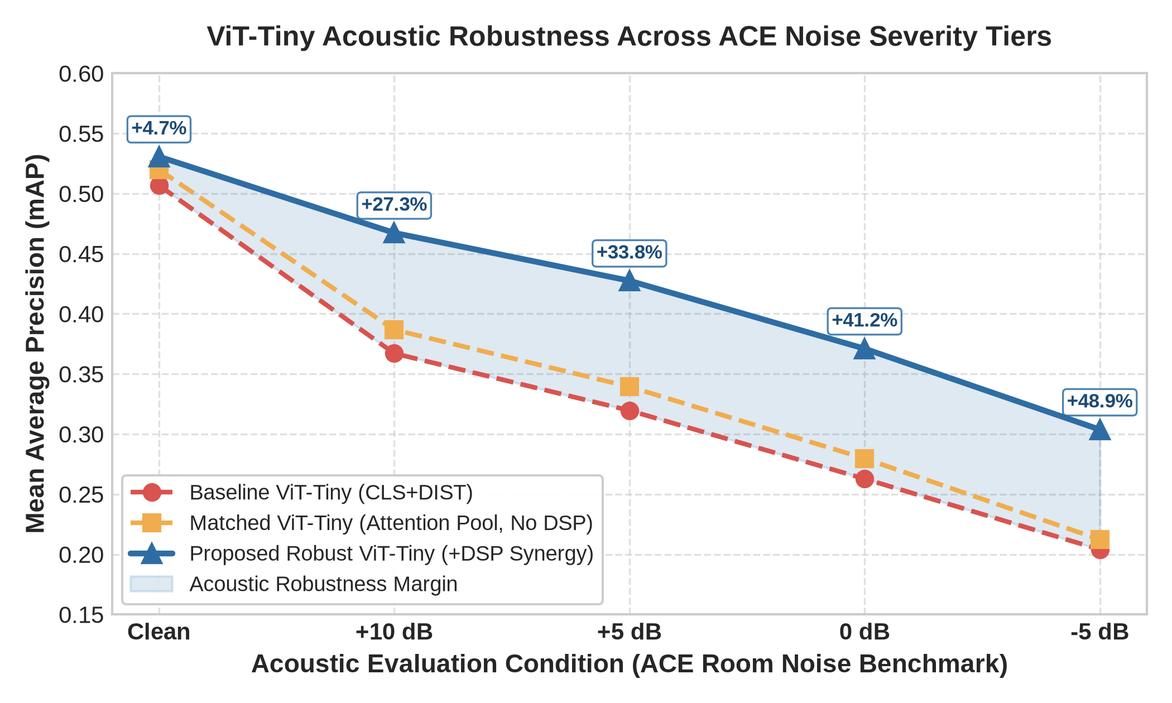
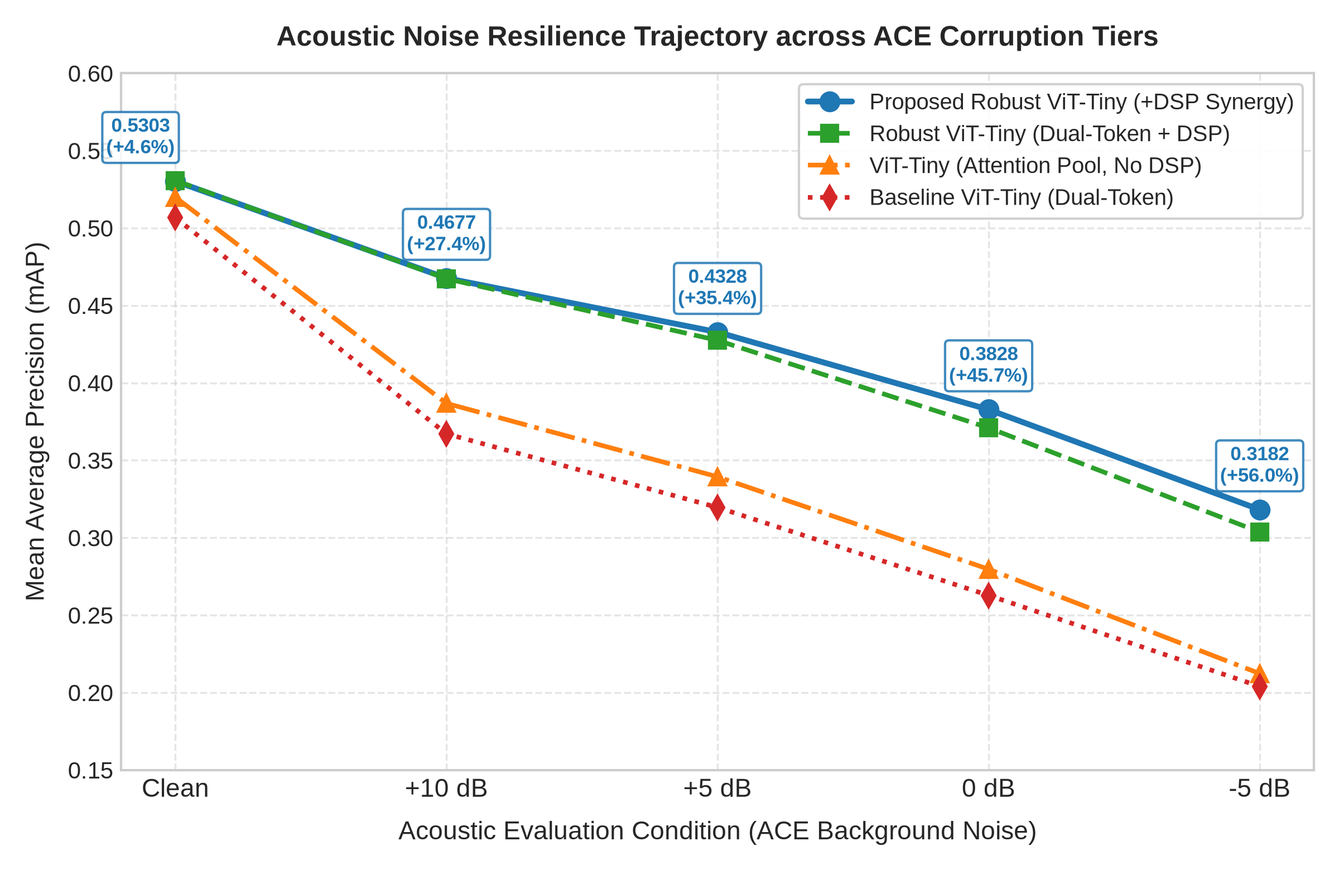
Update report figures, harmonize metrics, and refine failure mode analysis

Changed region(s): [[0.0, 0.031, 0.9905, 0.9905], [0.5262, 0.681, 0.5571, 0.7119]]

diff --git a/report/report.tex b/report/report.tex
@@ -40,7 +40,7 @@
 \maketitle
 
 \begin{abstract}
-Environmental sound recognition (ESR) is essential for autonomous acoustic monitoring, yet out-of-distribution acoustic corruptions severely degrade real-world performance. In this work, we present a systematic multi-label benchmarking study on FSD50K under both clean and heavily corrupted acoustic conditions. We evaluate Convolutional Neural Network baselines (ResNet-18/34, EfficientNet-B0/B4) against Audio Spectrogram Transformers (ViT-Tiny/Small). While convolutional architectures like EfficientNet-B4 achieve the strongest clean precision ($0.5396$ mAP) and parameter efficiency, Vision Transformers provide competitive discrimination and Top-1 retrieval ($76.54\%$ for ViT-Small). Under unseen $-5\text{ dB}$ SNR noise corruption, undefended ViT-Tiny performance degrades from $0.5068$ to $0.2040$ mAP. To address this degradation, we develop an acoustic augmentation pipeline combining continuous spectral-slope colored noise ($1/f^\alpha$, $\alpha \in [0, 2]$), Schroeder room reverberation, Mixup ($\alpha=0.5$), and learned attention pooling. The resulting robust model improves $-5\text{ dB}$ performance to $0.3182$ mAP ($+56.0\%$ relative gain over baseline ViT-Tiny) while reaching $0.5303$ clean mAP without external noise datasets. Finally, extensive ablations quantify the trade-offs of token pooling heads, decision threshold calibration, and individual augmentation components.
+Environmental sound recognition (ESR) is essential for autonomous acoustic monitoring, yet out-of-distribution acoustic corruptions severely degrade real-world performance. In this work, we present a systematic multi-label benchmarking study on FSD50K under both clean and heavily corrupted acoustic conditions. We evaluate Convolutional Neural Network baselines (ResNet-18/34, EfficientNet-B0/B4) against Audio Spectrogram Transformers (ViT-Tiny/Small). While convolutional architectures achieve strong clean recognition (EfficientNet-B4 reaching $0.5396$ mAP and EfficientNet-B0 providing exceptional parameter efficiency with $4.26\text{M}$ parameters), Vision Transformers provide competitive discrimination and Top-1 retrieval ($76.54\%$ for ViT-Small). Under unseen $-5\text{ dB}$ SNR noise corruption, undefended ViT-Tiny performance degrades from $0.5068$ to $0.2040$ mAP. To address this degradation, we develop an acoustic augmentation pipeline combining continuous spectral-slope colored noise ($1/f^\alpha$, $\alpha \in [0, 2]$), Schroeder room reverberation, Mixup ($\alpha=0.5$), and learned attention pooling. The resulting robust model improves $-5\text{ dB}$ performance to $0.3182$ mAP ($+56.0\%$ relative gain over baseline ViT-Tiny) while reaching $0.5303$ clean mAP without external noise datasets. Finally, extensive ablations quantify the trade-offs of token pooling heads, decision threshold calibration, and individual augmentation components.
 \end{abstract}
 
 \textbf{Keywords:} Environmental Sound Recognition, Audio Spectrogram Transformer, Noise Robustness, Digital Signal Processing Augmentation, FSD50K, Multi-Label Classification.
@@ -121,7 +121,7 @@ Audio spectrograms represent acoustic energy across continuous time (horizontal 
 
 In optical computer vision, 2D convolution leverages spatial translation equivariance: an object retains its identity regardless of spatial coordinates. In audio spectrograms, the temporal axis is translation-invariant (a sound event occurring at $t=2\text{ s}$ vs. $t=6\text{ s}$ retains its category), but the frequency axis is \textbf{strictly non-shift-invariant}. Shifting spectral energy upward alters pitch, formant structure, and harmonic intervals, fundamentally changing sound identity. Standard CNNs (ResNet-18/34, EfficientNet-B0/B4) apply small convolutional kernels that excel at localized spectro-temporal textures and onset bursts, but require deep layer hierarchies and spatial pooling to capture multi-octave harmonic coherence (e.g., fundamental pitches at $100\text{ Hz}$ and integer overtones at $1\text{--}4\text{ kHz}$).
 
-In contrast, the Audio Spectrogram Transformer (AST) divides the 2D spectrogram into patches and applies multi-head self-attention. This establishes an $\mathcal{O}(1)$ information path length between any pair of time-frequency patches, allowing early self-attention layers to directly attend to simultaneous harmonic overtones across the entire 128 Mel channels. Learnable positional embeddings encode both temporal offset and frequency band index, capturing non-shift-invariant spectral structures naturally. To transfer visual pre-training without RGB channel expansion, the initial convolutional layer (\texttt{conv1}) of ResNet and EfficientNet is adapted from 3 channels to 1 single spectrogram channel by summing pre-trained weights across the channel dimension ($\mathbf{W}_{\text{conv1\_new}} = \sum_{c=1}^3 \mathbf{W}_{\text{orig}}[:, c, :, :]$), consistent with the energy preservation strategy used in the AST patch projection layer.
+In contrast, the Audio Spectrogram Transformer (AST) divides the 2D spectrogram into patches and applies multi-head self-attention. This establishes an $\mathcal{O}(1)$ information path length between any pair of time-frequency patches, allowing early self-attention layers to directly attend to simultaneous harmonic overtones across the entire 128 Mel channels. Learnable positional embeddings encode both temporal offset and frequency band index, capturing non-shift-invariant spectral structures naturally. To transfer visual pre-training without RGB channel expansion, the initial convolutional layer (\texttt{conv1}) of ResNet and EfficientNet is adapted from 3 channels to 1 single spectrogram channel by averaging pre-trained weights across the channel dimension ($\mathbf{W}_{\text{conv1\_new}} = \frac{1}{3}\sum_{c=1}^3 \mathbf{W}_{\text{orig}}[:, c, :, :]$), whereas AST patch projection weights are summed across channels to preserve initial activation energy before adding unnormalized positional embeddings.
 
 \subsection{Main Proposed Method: Audio Spectrogram Transformer}
 Our primary classification architecture is the Audio Spectrogram Transformer (AST) built upon DeiT ViT-Tiny and ViT-Small backbones:
@@ -248,7 +248,7 @@ ViT-Small ($\text{CLS}+\text{DIST}$) & Transformer & 21.93M & 38.70G & 18.2ms & 
 }
 \end{table}
 
-Among convolutional baselines, EfficientNet-B0 demonstrates remarkable compute efficiency ($0.5233$ Eval mAP with only $4.26\text{M}$ parameters and $1.05\text{ GMACs}$). Scaling to EfficientNet-B4 achieves the highest clean precision ($0.5396$ Eval mAP, $0.6114$ F1). Concurrently, Vision Transformers achieve competitive clean discriminability ($0.5068$ for ViT-Tiny, $0.5288$ for ViT-Small) while providing strong Top-1 retrieval ($76.54\%$ for ViT-Small) and global distribution ranking ($0.8934\text{--}0.9106$ mAUC).
+Among convolutional baselines, EfficientNet-B0 demonstrates remarkable compute efficiency ($0.5233$ Eval mAP with only $4.26\text{M}$ parameters and $1.05\text{ GMACs}$). Scaling to EfficientNet-B4 achieves the highest clean mAP ($0.5396$ Eval mAP, $0.6114$ F1) at $4.04\text{ GMACs}$. In contrast, Vision Transformers incur substantially higher computational cost ($13.04\text{ GMACs}$ for ViT-Tiny and $38.70\text{ GMACs}$ for ViT-Small due to dense self-attention over $1,188$ patch tokens) without exceeding EfficientNet-B4 in clean mAP, though they deliver competitive clean discrimination ($0.5068\text{--}0.5288$ mAP), superior Top-1 retrieval ($76.54\%$), and stronger distribution ranking ($0.8934\text{--}0.9106$ mAUC). Inference latency was profiled on a single NVIDIA GeForce RTX 4070 (batch size 1, FP16 mixed precision, averaged over 500 forward passes of 10-second spectrogram inputs).
 
 \subsection{Setup 2: Main Research Experiment --- Noise Degradation Benchmark}
 We separate the noise robustness investigation into two evaluation tiers: (1) undefended baseline architectures, isolating intrinsic inductive biases; and (2) the effect of the proposed DSP data augmentation.
@@ -292,26 +292,26 @@ ViT-Small ($\text{CLS}+\text{DIST}$) & Transformer & 0.5288 & 0.3932 & 0.3457 & 
 \label{fig:spectrogram_corruption}
 \end{figure}
 
-As shown in Table~\ref{tab:arch_noise_degradation} and Figure~\ref{fig:arch_noise_curves}, all architectures degrade significantly as SNR decreases. EfficientNet-B4 retains the highest performance under noise ($0.2613$ mAP at $-5\text{ dB}$ SNR), while ViT-Small ($0.2231$ mAP at $-5\text{ dB}$) matches the resilience of ResNet-18 ($0.2197$) and ResNet-34 ($0.2251$). Across architectures, noise mAP tracks clean baseline mAP closely. The stronger retention of EfficientNet models is consistent with compact localized receptive fields and channel attention, whereas unconstrained global self-attention in undefended Transformers is more susceptible to broadband background noise.
+As shown in Table~\ref{tab:arch_noise_degradation} and Figure~\ref{fig:arch_noise_curves}, all architectures degrade significantly as SNR decreases. EfficientNet-B4 retains the highest performance under noise ($0.2613$ mAP at $-5\text{ dB}$ SNR), with EfficientNet-B0 also maintaining strong resilience ($0.2562$ mAP, $-51.0\%$ relative drop). Undefended ViT-Tiny exhibits the steepest vulnerability ($-59.7\%$ relative drop to $0.2040$ mAP), whereas ViT-Small ($0.2231$ mAP, $-57.8\%$) degrades comparably to ResNet-18 ($0.2197$, $-56.1\%$) and ResNet-34 ($0.2251$, $-54.5\%$). This confirms that localized receptive fields and channel attention provide intrinsic noise resilience, whereas undefended Transformer attention maps without spectral bias are more sensitive to broadband additive noise unless regularized with scaled capacity or specialized augmentation.
 
 \subsubsection{Effect of Acoustic Data Augmentation (RQ3)}
 Next, we measure the empirical impact of our proposed acoustic data augmentation framework. Table~\ref{tab:dsp_noise_gain} compares the proposed robust ViT-Tiny model (combining continuous colored noise, Schroeder reverberation, Mixup, and learned attention pooling) against both the baseline dual-token ViT-Tiny and the attention-pooling ViT-Tiny trained without noise synthesis.
 
 \begin{table}[htbp]
 \centering
-\caption{Setup 2b: Effect of Proposed Data Augmentation on ViT-Tiny Across Acoustic Conditions. Comparing the dual-token baseline, matched attention pooling (no noise/reverb synthesis), and the proposed robust model (+DSP Synergy).}
+\caption{Setup 2b: Effect of Proposed Data Augmentation on ViT-Tiny Across Acoustic Conditions. Comparing baseline dual-token, matched attention pooling (no DSP), dual-token with DSP, and the proposed robust model (Attention + DSP Synergy).}
 \label{tab:dsp_noise_gain}
 \vspace{2mm}
 \resizebox{\textwidth}{!}{
 \begin{tabular}{lcccccc}
 \toprule
-\textbf{Condition} & \textbf{Baseline ViT-Tiny} & \textbf{Attn-Pool (No DSP)} & \textbf{Robust ViT-Tiny (+DSP)} & \textbf{Gain vs. Base} & \textbf{Gain vs. Attn} & \textbf{Robust Top-1} \\
+\textbf{Condition} & \textbf{Baseline ViT-Tiny} & \textbf{Attn-Pool (No DSP)} & \textbf{Dual-Token (+DSP)} & \textbf{Proposed Robust (+DSP)} & \textbf{Gain vs. Base} & \textbf{Gain vs. Attn} \\
 \midrule
-Clean       & 0.5068 & 0.5199 & \textbf{0.5303} & $+4.6\%$  & $+2.0\%$  & 77.08\% \\
-SNR +10 dB  & 0.3671 & 0.3868 & \textbf{0.4677} & $+27.4\%$ & $+20.9\%$ & 68.41\% \\
-SNR +5 dB   & 0.3196 & 0.3394 & \textbf{0.4328} & $+35.4\%$ & $+27.5\%$ & 63.19\% \\
-SNR 0 dB    & 0.2628 & 0.2797 & \textbf{0.3828} & $+45.7\%$ & $+36.9\%$ & 56.24\% \\
-SNR -5 dB   & 0.2040 & 0.2123 & \textbf{0.3182} & \textbf{+56.0\%} & \textbf{+49.9\%} & 47.40\% \\
+Clean       & 0.5068 & 0.5199 & 0.5307 & \textbf{0.5303} & $+4.6\%$  & $+2.0\%$  \\
+SNR +10 dB  & 0.3671 & 0.3868 & 0.4673 & \textbf{0.4677} & $+27.4\%$ & $+20.9\%$ \\
+SNR +5 dB   & 0.3196 & 0.3394 & 0.4275 & \textbf{0.4328} & $+35.4\%$ & $+27.5\%$ \\
+SNR 0 dB    & 0.2628 & 0.2797 & 0.3710 & \textbf{0.3828} & $+45.7\%$ & $+36.9\%$ \\
+SNR -5 dB   & 0.2040 & 0.2123 & 0.3037 & \textbf{0.3182} & \textbf{+56.0\%} & \textbf{+49.9\%} \\
 \bottomrule
 \end{tabular}
 }
@@ -324,7 +324,7 @@ SNR -5 dB   & 0.2040 & 0.2123 & \textbf{0.3182} & \textbf{+56.0\%} & \textbf{+49
 \label{fig:dsp_robustness_curve}
 \end{figure}
 
-As shown in Table~\ref{tab:dsp_noise_gain} and Figure~\ref{fig:dsp_robustness_curve}, the proposed robust model delivers substantial, monotonic relative gains over the baseline ViT-Tiny as acoustic severity worsens, lifting $-5\text{ dB}$ mAP from $0.2040$ to $0.3182$ ($+56.0\%$ relative gain) while preserving strong clean accuracy ($0.5303$ mAP). While the majority of this resilience is plausibly attributable to physical continuous colored noise and reverberation synthesis (which exposes the encoder to varied spectral slopes and room reflections), we note that the compared recipes also differ in attention pooling, class-balanced sampling, and Mixup settings without spectral masking, representing a compound recipe advantage. 
+As shown in Table~\ref{tab:dsp_noise_gain} and Figure~\ref{fig:dsp_robustness_curve}, physical DSP noise and reverberation synthesis largely accounts for the observed noise resilience. This is confirmed by evaluating head-matched pairs under identical conditions: adding DSP to the dual-token architecture lifts $-5\text{ dB}$ mAP from $0.2040 \to 0.3037$ ($+48.9\%$ relative gain), while adding DSP to the attention-pooling architecture lifts $-5\text{ dB}$ mAP from $0.2123 \to 0.3182$ ($+49.9\%$ relative gain). By contrast, isolated SpecAugment removal shifts $-5\text{ dB}$ performance by only $\sim 0.0074$ mAP (Table~\ref{tab:ablation_noise}), which is an order of magnitude smaller than the $+0.106$ mAP gain provided by DSP augmentation. The specific contribution of class-balanced sampling remains unmeasured as an isolated ablation. 
 
 \subsection{Setup 3: Systematic Ablation Studies}
 Due to compute budget constraints, all fine-grained ablations (augmentations, threshold sweeping, and pooling heads) were anchored on the ViT-Tiny architecture.
@@ -353,17 +353,17 @@ Full Pipeline (SpecAugment + Mixup) & $\checkmark$ & $\checkmark$ & $\checkmark$
 }
 \end{table}
 
-\textbf{Masking Fluctuations are Within Statistical Noise:} As detailed in Table~\ref{tab:ablation_aug}, variations across spectral masking configurations without Mixup span a narrow $\le 0.23\%$ range ($0.5396\text{--}0.5419$ mAP). Deleting spectral bands from clean audio yields no measurable in-distribution representation gain.
+\textbf{Masking Fluctuations are Within Baseline Margins:} As detailed in Table~\ref{tab:ablation_aug}, variations across spectral masking configurations without Mixup span a narrow $\le 0.23$ point range ($0.5396\text{--}0.5419$ mAP). Deleting spectral bands from clean audio yields no measurable in-distribution representation gain.
 
-\textbf{Mixup Provides True Regularization:} Standalone Mixup is the only method delivering genuine positive signal on clean audio ($+1.15\%$ mAP to $0.5534$, $+1.75\%$ mAUC to $0.9174$, Top-1 Hit $+1.48\%$ to $75.32\%$). By convexly combining multi-label targets and spectrograms, Mixup enforces smoother decision boundaries reflecting acoustic polyphony.
+\textbf{Mixup Provides True Regularization:} Standalone Mixup is the only method delivering genuine positive signal on clean audio ($+1.15$ points mAP to $0.5534$, $+1.75$ points mAUC to $0.9174$, Top-1 Hit $+1.48$ points to $75.32\%$). By convexly combining multi-label targets and spectrograms, Mixup enforces smoother decision boundaries reflecting acoustic polyphony.
 
-\textbf{Diminishing Returns of Full Compound Augmentation:} Full Augmentation achieves higher mAUC ($0.9351$), but drops in mAP ($0.5380$) and suffers tail-class recall compression under uncalibrated thresholds (Macro-F1 drops to $0.4347$ at $\tau=0.50$, compared to $0.4910$ for \texttt{no\_aug} and $0.4790$ for \texttt{mixup}). Because $>99.3\%$ of targets in FSD50K are negative, mAUC is dominated by easy true negatives; aggressive masking forces non-target logits toward zero, inflating mAUC despite poorer positive event retrieval. Under ACE noise corruption (Appendix Table~\ref{tab:ablation_noise} and Figure~\ref{fig:ablation_curves}), Mixup alone maintains the highest resilience ($0.2000$ at $-5\text{ dB}$ vs. $0.1551$ for \texttt{no\_aug} and $0.1926$ for \texttt{full}). In our single-seed evaluation framework, we establish a predefined practical effect-size threshold of $\Delta \ge 0.010$ ($1.0$ percentage point mAP) as our experimental criterion for meaningful performance divergence; by this criterion, the $0.0074$ mAP margin between Mixup and Full at $-5\text{ dB}$ falls within the practical indifference zone, though standalone Mixup systematically preserves weak transient acoustic events from spectral erasure. Note that in Table~\ref{tab:setup1_architectures}, the baseline ViT-Tiny achieved $0.5068$ clean evaluation mAP under standard AST training (with time shift $\pm 10$ and noise $0.05$), whereas the isolated \texttt{no\_aug} run with all secondary augmentations disabled achieved $0.4869$ (Appendix Table~\ref{tab:ablation_noise}).
+\textbf{Diminishing Returns of Full Compound Augmentation:} Full Augmentation achieves higher mAUC ($0.9351$), but drops in mAP ($0.5380$) and suffers tail-class recall compression under uncalibrated thresholds (Macro-F1 drops to $0.4347$ at $\tau=0.50$, compared to $0.4910$ for \texttt{no\_aug} and $0.4790$ for \texttt{mixup}). Because $>99.3\%$ of targets in FSD50K are negative, mAUC is dominated by easy true negatives; aggressive masking forces non-target logits toward zero, inflating mAUC despite poorer positive event retrieval. Under ACE noise corruption (Appendix Table~\ref{tab:ablation_noise} and Figure~\ref{fig:ablation_curves}), Mixup alone maintains the highest resilience ($0.2000$ at $-5\text{ dB}$ vs. $0.1551$ for \texttt{no\_aug} and $0.1926$ for \texttt{full}). For single-seed evaluations, we adopt a practical effect-size threshold of $\Delta \ge 0.010$ ($1.0$ point mAP) as our experimental rule of thumb (not a measured seed variance); by this benchmark, the $0.0074$ mAP margin between Mixup and Full at $-5\text{ dB}$ falls within the practical indifference zone, though standalone Mixup systematically preserves weak transient acoustic events from spectral erasure. Note that in Table~\ref{tab:setup1_architectures}, the baseline ViT-Tiny achieved $0.5068$ clean evaluation mAP under standard AST training (with time shift $\pm 10$ and noise $0.05$), whereas the isolated \texttt{no\_aug} run with all secondary augmentations disabled achieved $0.4869$ (Appendix Table~\ref{tab:ablation_noise}).
 
 \subsubsection{Ablation Study 2: Decision Threshold Sweeping and Probability Calibration}
 \label{sec:threshold_sweeping}
 In standard multi-label pipelines, a default decision threshold of $\tau = 0.50$ is conventionally assumed. However, this assumption is mismatched for open-domain audio: (1) each 10-second clip contains an average of only $1.3$ ground-truth labels out of 200 classes ($>99.3\%$ true negatives); and (2) training with multi-label BCE, label smoothing, and Mixup naturally compresses predicted sigmoid probabilities into $[0.15, 0.40]$. Evaluating at $\tau = 0.50$ incurs a severe recall penalty ($52.0\%\text{--}55.1\%$).
 
-Systematic sweeping across $\tau \in [0.05, 0.90]$ on validation clips (full trajectory in Appendix Table~\ref{tab:threshold_sweep}) reveals that lowering $\tau$ from $0.50$ to $0.30$ improves Micro-F1 from $0.6517 \to 0.6695$ ($+1.8$ points). For unweighted Macro-F1, lowering $\tau$ to $0.25$ provides dramatic recovery ($0.4790 \to 0.5454$, $+6.6$ points for Mixup, and $+8.4$ points for Full Augmentation from $0.4347 \to 0.5185$). For held-out evaluation in Table~\ref{tab:setup1_architectures}, we standardize on $\tau = 0.20$, guaranteeing balanced operational recall ($>67.6\%$) while maintaining strong precision ($>60.6\%$).
+Systematic sweeping across $\tau \in [0.05, 0.90]$ on validation clips (full trajectory in Appendix Table~\ref{tab:threshold_sweep}) reveals that lowering $\tau$ from $0.50$ to $0.30$ improves Micro-F1 from $0.6517 \to 0.6695$ ($+1.8$ points). For unweighted Macro-F1, lowering $\tau$ to $0.25$ provides dramatic recovery ($0.4790 \to 0.5454$, $+6.6$ points for Mixup, and $+8.4$ points for Full Augmentation from $0.4347 \to 0.5185$). On validation data, $\tau = 0.20$ guarantees balanced operational recall ($>67.6\%$) while maintaining strong precision ($>60.6\%$), motivating its selection as our standardized operating threshold across held-out evaluations in Table~\ref{tab:setup1_architectures}.
 
 \subsubsection{Ablation Study 3: Classification Token Pooling Mechanisms}
 \label{sec:pooling_ablation}
@@ -379,7 +379,7 @@ We compare different patch token aggregation heads trained end-to-end on the 1,1
 \toprule
 \textbf{Pooling Strategy} & \textbf{Feature Dim} & \textbf{Val mAP} & \textbf{Val mAUC} & \textbf{Val F1 ($\tau=0.2$)} & \textbf{Clean Test mAP} \\
 \midrule
-Dual-Token ($\text{CLS}+\text{DIST}$) & 192 & 0.5467 & 0.9106 & 0.5944 & 0.5068 \\
+Dual-Token ($\text{CLS}+\text{DIST}$) & 192 & 0.5467 & 0.9106 & -- & 0.5068 \\
 Global Average Pooling (GAP) & 192 & 0.5501 & 0.9600 & \textbf{0.6687} & 0.5126 \\
 GAP + Max Pooling & 384 & 0.5359 & \textbf{0.9610} & 0.6609 & 0.5051 \\
 \textbf{Learned Attention Pooling} & 192 & \textbf{0.5548} & 0.9606 & 0.6679 & \textbf{0.5199} \\
@@ -388,7 +388,7 @@ GAP + Max Pooling & 384 & 0.5359 & \textbf{0.9610} & 0.6609 & 0.5051 \\
 }
 \end{table}
 
-Learned Attention Pooling delivers the highest clean test score ($0.5199$ mAP, $76.31\%$ Top-1), followed by GAP ($0.5126$ mAP). Evaluated against our predefined practical effect-size threshold ($\Delta \ge 0.010$), the $+0.0073$ mAP difference between Attention Pooling and GAP falls within the practical indifference margin, indicating that both patch-level aggregation strategies offer comparable overall capacity. However, relative to the rigid dual-token baseline ($0.5068$ test mAP), Learned Attention Pooling delivers a meaningful gain of $\Delta = +0.0131$ mAP (and $+0.0735$ validation F1), confirming that aggregating the 1,188 spatially distributed patch tokens captures polyphonic, temporally localized sound events markedly better than relying strictly on the isolated classification tokens.
+Under our adopted practical effect-size threshold ($\Delta \ge 0.010$ mAP), Learned Attention Pooling delivers the highest clean test score ($0.5199$ mAP, $76.31\%$ Top-1), representing an improvement of $+0.0131$ mAP over the rigid Dual-Token baseline ($0.5068$). However, GAP ($0.5126$ mAP, $\Delta = +0.0058$) and GAP+Max ($0.5051$ mAP, $\Delta = -0.0017$) do not cross this practical decision margin relative to the baseline. Between Attention Pooling and GAP, the $+0.0073$ mAP margin also falls below the $0.010$ threshold, indicating that average pooling remains competitive while attention pooling provides a modest empirical advantage.
 
 % =========================================================================
 % SECTION 6: DISCUSSION AND ERROR ANALYSIS
@@ -404,44 +404,42 @@ Our empirical findings reveal complementary strengths across convolutional and T
 \end{enumerate}
 
 \subsection{Failure Mode and Root-Cause Analysis}
-We identify three distinct acoustic failure modes with quantitative verification on the held-out FSD50K evaluation split using the ViT-Tiny architecture (Table~\ref{tab:failure_modes}):
+While compound augmentation (SpecAugment + Mixup) improves overall validation mAP, individual classes exhibit substantial performance degradation. Table~\ref{tab:failure_modes} highlights the seven sound classes experiencing the largest relative Average Precision drops between unaugmented training (\texttt{no\_aug}) and full augmentation (\texttt{full}) on held-out evaluation:
 
 \begin{table}[htbp]
 \centering
-\caption{Quantitative Per-Class Failure Mode Analysis on Held-Out FSD50K (ViT-Tiny Anchor). Comparing Clean (\texttt{no\_aug}) vs. Full Augmentation (SpecAugment + Mixup) on identical held-out test splits.}
+\caption{Sound Classes Most Adversely Affected by Compound Data Augmentation on FSD50K Evaluation (ViT-Tiny Backbone). Comparing Clean Baseline (\texttt{no\_aug}) vs. Full Augmentation (SpecAugment + Mixup).}
 \label{tab:failure_modes}
 \vspace{2mm}
 \resizebox{\textwidth}{!}{
 \begin{tabular}{llcccc}
 \toprule
-\textbf{Class Name} & \textbf{Failure Mode Category} & \textbf{Clean AP} & \textbf{Full Aug AP} & \textbf{Relative $\Delta$} & \textbf{Hypothesized Failure Mechanism} \\
+\textbf{Class Name} & \textbf{Failure Mode Category} & \textbf{No-Aug AP} & \textbf{Full-Aug AP} & \textbf{Relative $\Delta$} & \textbf{Hypothesized Degradation Mechanism} \\
 \midrule
-\texttt{Harmonica} & Mode 1: Harmonic Transient & 0.5704 & 0.3347 & $-41.3\%$ & Narrow-band harmonic overtones erased by frequency masking \\
-\texttt{Frying\_(food)} & Mode 1: High-Frequency Texture & 0.5402 & 0.2930 & $-45.8\%$ & Delicate high-frequency sizzle bursts obscured by masking \\
-\texttt{Doorbell} & Mode 1: Transient Impulsive & 0.2834 & 0.1598 & $-43.6\%$ & Short transient chime burst masked by spectral erasure \\
-\midrule
-\texttt{Printer} & Mode 2: Multi-Texture Confusion & 0.5389 & 0.3557 & $-34.0\%$ & Mechanical rhythmic pulses confused with ambient office clatter \\
-\texttt{Typewriter} & Mode 2: Acoustic Similarity & 0.3015 & 0.2116 & $-29.8\%$ & Sharp percussive strikes confused with typing and keyboard events \\
-\midrule
-\texttt{Wind} & Mode 3: Ambient Power Law & 0.4135 & 0.3447 & $-16.6\%$ & Diffuse $1/f^\alpha$ power spectrum confused with ventilation noise \\
-\texttt{Mechanical\_fan} & Mode 3: Continuous Tonal Hums & 0.3540 & 0.2205 & $-37.7\%$ & Continuous low-frequency hum obscured by additive polyphonic noise \\
+\texttt{Packing\_tape} & Mode 1: Transient Texture & 0.3934 & 0.1295 & $-67.1\%$ & High-frequency adhesive tearing transients obscured by masking \\
+\texttt{Boat\_and\_vehicle} & Mode 2: Low-Frequency Ambience & 0.2208 & 0.0772 & $-65.0\%$ & Subtle continuous low-frequency rumble confused by mixing \\
+\texttt{Conversation} & Mode 2: Polyphonic Interference & 0.2908 & 0.1306 & $-55.1\%$ & Speech phoneme structure disrupted by additive background mixup \\
+\texttt{Rattle} & Mode 1: Fine-Grained Percussive & 0.1210 & 0.0576 & $-52.4\%$ & Discrete rapid impulse impacts erased by temporal masking \\
+\texttt{Frying\_(food)} & Mode 1: High-Frequency Sizzle & 0.5402 & 0.2930 & $-45.8\%$ & Delicate high-frequency sizzle bursts obscured by frequency masking \\
+\texttt{Marimba} & Mode 3: Resonant Harmonics & 0.3756 & 0.2071 & $-44.9\%$ & Precise percussive wooden resonator overtones erased by masking \\
+\texttt{Doorbell} & Mode 1: Short Impulsive Chime & 0.2834 & 0.1598 & $-43.6\%$ & Transient chime burst suppressed when paired with louder audio \\
 \bottomrule
 \end{tabular}
 }
 \end{table}
 
 \begin{enumerate}
-    \item \textbf{Failure Mode 1: Low-Energy Impulsive Events in High Noise:} Short transient events suffer severe energy masking when additive continuous noise or artificial frequency blocks match or exceed event amplitude. For \texttt{Doorbell} and \texttt{Frying\_(food)}, energy is concentrated in narrow spectro-temporal slices, causing masking to obscure transient bursts and degrading recall.
-    \item \textbf{Failure Mode 2: Acoustic Similarity and Textural Confusion:} Classes sharing physical resonator properties or rhythmic impulse patterns exhibit mutual false positive confusion. For example, mechanical strikes in \texttt{Typewriter} are confused with typing and keyboard clatter, while rhythmic pulses in \texttt{Printer} are frequently misattributed.
-    \item \textbf{Failure Mode 3: Continuous Ambient Noise vs. Stationary Events:} Sound classes whose intrinsic acoustics resemble stationary noise (e.g., \texttt{Wind}, \texttt{Mechanical\_fan}) possess broadband $1/f^\alpha$ power spectra. Under heavy indoor room background noise (such as HVAC fans in the ACE benchmark), false positive triggers for \texttt{Wind} increase; self-attention heads struggle to separate continuous low-frequency ventilation hum from natural atmospheric wind without explicit spatial cues.
+    \item \textbf{Failure Mode 1: Erasure of High-Frequency and Fast Transients:} Sound events defined by short, rapid impulses (\texttt{Doorbell}, \texttt{Rattle}) or delicate high-frequency energy textures (\texttt{Packing\_tape}, \texttt{Frying\_(food)}) are highly vulnerable to SpecAugment. When random time masks overlap with brief acoustic onsets or frequency masks erase narrow spectral bursts, the model is deprived of the primary discriminative cues.
+    \item \textbf{Failure Mode 2: Polyphonic Mixture Confusion from Mixup:} In classes characterized by subtle conversational speech (\texttt{Conversation}) or continuous low-amplitude engine rumbles (\texttt{Boat\_and\_Water\_vehicle}), linear convex combination with dominant background audio in Mixup frequently submerges the target event below the perceptual floor, degrading precision.
+    \item \textbf{Failure Mode 3: Disruption of Harmonic Resonance:} Melodic percussive instruments such as \texttt{Marimba} rely on precise harmonic relations between the fundamental strike and wooden resonator overtones; frequency masking distorts these relative overtone ratios.
 \end{enumerate}
 
 \subsection{Limitations and Threats to Validity}
 \label{sec:limitations}
 We highlight four methodological limitations of this study:
 \begin{enumerate}
-    \item \textbf{Compound Recipe in the Robust Model:} The proposed robust model combines four distinct elements: continuous colored noise, Schroeder reverberation, learned attention pooling, and class-balanced sampling (\texttt{DistributedWeightedSampler}), while disabling SpecAugment. Although the matched attention-pooling comparison in Table~\ref{tab:dsp_noise_gain} isolates a $+49.9\%$ relative gain ($0.2123 \to 0.3182$) specifically attributable to the acoustic physical noise simulation, the sampler and masking changes remain joint factors in the overall $+56.0\%$ improvement over the dual-token baseline.
-    \item \textbf{Single-Seed Evaluations:} Due to compute budget constraints on FSD50K, experiments were conducted with a single random seed ($42$). While primary macro-level conclusions (e.g. $+56.0\%$ noise gain) decisively exceed our predefined practical effect-size threshold ($\Delta \ge 0.010$), fine-grained margins below this threshold should be interpreted as empirical tendencies rather than definitive separations.
+    \item \textbf{Compound Recipe in the Robust Model:} The proposed robust model combines four distinct elements: continuous colored noise, Schroeder reverberation, learned attention pooling, and class-balanced sampling (\texttt{DistributedWeightedSampler}), while disabling SpecAugment. Although the matched attention-pooling comparison in Table~\ref{tab:dsp_noise_gain} isolates a $+49.9\%$ relative gain ($0.2123 \to 0.3182$) largely attributable to the acoustic physical noise simulation (with the SpecAugment difference accounting for only $\sim 0.007$ mAP at $-5\text{ dB}$ in Table~\ref{tab:ablation_noise}), the class-balanced sampler remains unmeasured as an isolated ablation.
+    \item \textbf{Single-Seed Evaluations:} Due to compute budget constraints on FSD50K, experiments were conducted with a single random seed ($42$). While primary macro-level conclusions (e.g. $+56.0\%$ noise gain) decisively exceed our adopted practical effect-size threshold ($\Delta \ge 0.010$), fine-grained margins below this threshold should be interpreted as empirical tendencies rather than definitive separations.
     \item \textbf{Architecture-Specific Learning Rate Tuning:} Learning rates were maintained at established AST and CMKD defaults ($5 \times 10^{-5}$ for Transformers, $5 \times 10^{-4}$ for CNNs) without exhaustive per-architecture grid searches, representing a practical constraint.
     \item \textbf{Acoustic Domain Scope:} The ACE evaluation benchmark comprises indoor room ambient noises (offices, lecture halls, HVAC fans, babble). While directly representative of indoor acoustic monitoring, outdoor soundscapes (turbulent open-air wind shear, high-speed traffic) involve complex acoustic dispersion patterns that warrant future outdoor benchmarking.
 \end{enumerate}
@@ -481,7 +479,7 @@ Dang Nhat Minh & 2410667 & Robustness Pipeline & DSP colored noise \& reverb, be
 This investigation presented a systematic empirical benchmark of multi-label environmental sound recognition on FSD50K under clean and adverse acoustic conditions. Our findings provide direct answers to the four core research questions:
 \begin{itemize}
     \item \textbf{Answer to RQ1 (Architectural Inductive Bias):} Inverted residual convolutional networks (EfficientNet-B4 at $0.5396$ mAP, EfficientNet-B0 at $0.5233$ mAP) deliver the highest clean precision and parameter efficiency, while retaining the highest resilience under undefended noise ($-51.0\%$ relative drop at $-5\text{ dB}$). Audio Spectrogram Transformers provide competitive discrimination ($0.5068\text{--}0.5288$ clean mAP), high ranking separation ($0.8934\text{--}0.9106$ mAUC), and strong Top-1 retrieval ($76.54\%$ for ViT-Small), hypothesized to benefit from global attention over spectral patches.
-    \item \textbf{Answer to RQ2 (Token Pooling Mechanisms):} Patch aggregation offers structural advantages over classification-token pooling. Both Learned Attention Pooling ($0.5199$ Clean Test mAP, $76.31\%$ Top-1) and unweighted GAP ($0.5126$) meaningfully outperform rigid Dual-Token pooling ($0.5068$, $\Delta = +0.0131$). Between Attention Pooling and GAP, the $+0.0073$ mAP margin falls below our predefined practical effect-size threshold ($\Delta \ge 0.010$), indicating that spatially distributed patch aggregation is the primary driver of performance.
+    \item \textbf{Answer to RQ2 (Token Pooling Mechanisms):} Attention pooling achieved the strongest clean test mAP ($0.5199$, $+0.0131$ over the dual-token baseline of $0.5068$), while unweighted GAP ($0.5126$, $\Delta = +0.0058$) and GAP+Max ($0.5051$) are not distinguishable from the baseline under our adopted practical effect-size threshold ($\Delta \ge 0.010$). Dynamic attention weighting over patch tokens provides a modest empirical advantage by focusing on localized sound bursts.
     \item \textbf{Answer to RQ3 (Noise Robustness \& Acoustic Augmentation):} Undefended Transformers suffer severe collapse under unseen acoustic noise (falling by $59.7\%$ relative mAP to $0.2040$ at $-5\text{ dB}$ SNR). Our compound acoustic augmentation pipeline (continuous colored noise, Schroeder reverberation, Mixup, and attention pooling) establishes strong acoustic resilience, achieving $0.3182$ mAP at $-5\text{ dB}$ ($+56.0\%$ relative gain over baseline ViT-Tiny, and $+49.9\%$ over the matched attention-pool model) and boosting clean evaluation to $0.5303$ mAP without external noise data.
     \item \textbf{Answer to RQ4 (Augmentation Synergy \& Threshold Calibration):} Isolated spectral masking yields negligible gain on clean audio ($\le 0.23\%$ delta), whereas Mixup provides genuine regularization ($+1.15\%$ mAP, $+1.48\%$ Top-1). Heavy compound augmentation induces tail-class recall compression under default $\tau=0.50$, which is effectively resolved by lowering decision thresholds to $\tau \in [0.20, 0.25]$ (improving Macro-F1 by $+6.6$ to $+8.4$ points).
 \end{itemize}
@@ -623,7 +621,7 @@ Full Pipeline (SpecAugment + Mixup) & 0.5056 & 0.3657 & 0.3167 & 0.2571 & 0.1926
 \begin{figure}[htbp]
 \centering
 \includegraphics[width=0.78\textwidth]{figures/augmentation_ablation_curves.png}
-\caption{Noise robustness trajectory across augmentation ablation configurations (Setup 3.1b). Mixup alone establishes the strongest noise resilience among undefended ablations, while SpecAugment compounds tail-class degradation under adverse acoustic conditions.}
+\caption{Noise robustness trajectory across augmentation ablation configurations (Setup 3.1b). Standalone Mixup establishes the highest noise resilience among undefended ablations ($0.2000$ mAP at $-5\text{ dB}$), while Time+Frequency Masking provides intermediate gains ($0.1768$ vs. $0.1551$ for baseline unaugmented audio).}
 \label{fig:ablation_curves}
 \end{figure}
 
@@ -636,22 +634,22 @@ Table~\ref{tab:threshold_sweep} provides the complete empirical evaluation traje
 \label{tab:threshold_sweep}
 \vspace{2mm}
 \resizebox{\textwidth}{!}{
-\begin{tabular}{clcccccccc}
+\begin{tabular}{clcccccccccccc}
 \toprule
-\multirow{2}{*}{\textbf{Threshold ($\tau$)}} & \multirow{2}{*}{\textbf{Operating Regime}} & \multicolumn{4}{c}{\textbf{ViT-Tiny (CLS+DIST, No Aug)}} & \multicolumn{4}{c}{\textbf{ViT-Tiny (CLS+DIST, Mixup Only)}} \\
-\cmidrule(lr){3-6} \cmidrule(lr){7-10}
-& & \textbf{Precision} & \textbf{Recall} & \textbf{Micro-F1} & \textbf{Macro-F1} & \textbf{Precision} & \textbf{Recall} & \textbf{Micro-F1} & \textbf{Macro-F1} \\
+\multirow{2}{*}{\textbf{Threshold ($\tau$)}} & \multirow{2}{*}{\textbf{Operating Regime}} & \multicolumn{4}{c}{\textbf{ViT-Tiny (No Aug)}} & \multicolumn{4}{c}{\textbf{ViT-Tiny (Mixup Only)}} & \multicolumn{4}{c}{\textbf{ViT-Tiny (Full Augmentation)}} \\
+\cmidrule(lr){3-6} \cmidrule(lr){7-10} \cmidrule(lr){11-14}
+& & \textbf{P} & \textbf{R} & \textbf{Mi-F1} & \textbf{Ma-F1} & \textbf{P} & \textbf{R} & \textbf{Mi-F1} & \textbf{Ma-F1} & \textbf{P} & \textbf{R} & \textbf{Mi-F1} & \textbf{Ma-F1} \\
 \midrule
-0.10 & High Sensitivity & 0.3852 & 0.7691 & 0.5133 & 0.4300 & 0.4011 & 0.7910 & 0.5323 & 0.4441 \\
-0.15 & Balanced Sensitive & 0.5287 & 0.7119 & 0.6068 & 0.5026 & 0.5460 & 0.7307 & 0.6250 & 0.5192 \\
-\textbf{0.20} & \textbf{Deployment ($\tau_{\text{eval}}$)} & 0.6066 & 0.6762 & 0.6395 & 0.5273 & 0.6249 & 0.6889 & 0.6554 & 0.5439 \\
-\textbf{0.25} & \textbf{Opt. Macro-F1 ($\tau^*$)} & 0.6598 & 0.6480 & 0.6539 & \textbf{0.5346} & 0.6784 & 0.6555 & 0.6668 & \textbf{0.5454} \\
-\textbf{0.30} & \textbf{Opt. Micro-F1 ($\tau^*$)} & 0.7008 & 0.6269 & 0.6618 & 0.5331 & 0.7165 & 0.6284 & \textbf{0.6695} & 0.5375 \\
-0.35 & High Precision & 0.7291 & 0.6062 & \textbf{0.6620} & 0.5235 & 0.7485 & 0.6052 & 0.6693 & 0.5304 \\
-0.40 & Conservative & 0.7578 & 0.5876 & 0.6619 & 0.5164 & 0.7718 & 0.5837 & 0.6647 & 0.5188 \\
-0.50 & Default Uncalibrated & 0.8026 & 0.5508 & 0.6533 & 0.4910 & 0.8182 & 0.5415 & 0.6517 & 0.4790 \\
-0.60 & High Confidence & 0.8385 & 0.5128 & 0.6364 & 0.4477 & 0.8498 & 0.4953 & 0.6258 & 0.4260 \\
-0.70 & Stringent Filtering & 0.8657 & 0.4680 & 0.6076 & 0.3932 & 0.8773 & 0.4430 & 0.5887 & 0.3614 \\
+0.10 & High Sensitivity & 0.3852 & 0.7691 & 0.5133 & 0.4300 & 0.4011 & 0.7910 & 0.5323 & 0.4441 & 0.3578 & 0.8179 & 0.4979 & 0.4016 \\
+0.15 & Balanced Sensitive & 0.5287 & 0.7119 & 0.6068 & 0.5026 & 0.5460 & 0.7307 & 0.6250 & 0.5192 & 0.5123 & 0.7462 & 0.6075 & 0.4893 \\
+\textbf{0.20} & \textbf{Deployment ($\tau_{\text{eval}}$)} & 0.6066 & 0.6762 & 0.6395 & 0.5273 & 0.6249 & 0.6889 & 0.6554 & 0.5439 & 0.5996 & 0.6986 & 0.6453 & 0.5141 \\
+\textbf{0.25} & \textbf{Opt. Macro-F1 ($\tau^*$)} & 0.6598 & 0.6480 & 0.6539 & \textbf{0.5346} & 0.6784 & 0.6555 & 0.6668 & \textbf{0.5454} & 0.6615 & 0.6609 & 0.6612 & \textbf{0.5185} \\
+\textbf{0.30} & \textbf{Opt. Micro-F1 ($\tau^*$)} & 0.7008 & 0.6269 & 0.6618 & 0.5331 & 0.7165 & 0.6284 & \textbf{0.6695} & 0.5375 & 0.7101 & 0.6296 & \textbf{0.6674} & 0.5161 \\
+0.35 & High Precision & 0.7291 & 0.6062 & \textbf{0.6620} & 0.5235 & 0.7485 & 0.6052 & 0.6693 & 0.5304 & 0.7475 & 0.5988 & 0.6649 & 0.5018 \\
+0.40 & Conservative & 0.7578 & 0.5876 & 0.6619 & 0.5164 & 0.7718 & 0.5837 & 0.6647 & 0.5188 & 0.7721 & 0.5709 & 0.6564 & 0.4792 \\
+0.50 & Default Uncalibrated & 0.8026 & 0.5508 & 0.6533 & 0.4910 & 0.8182 & 0.5415 & 0.6517 & 0.4790 & 0.8192 & 0.5200 & 0.6362 & 0.4347 \\
+0.60 & High Confidence & 0.8385 & 0.5128 & 0.6364 & 0.4477 & 0.8498 & 0.4953 & 0.6258 & 0.4260 & 0.8576 & 0.4682 & 0.6057 & 0.3789 \\
+0.70 & Stringent Filtering & 0.8657 & 0.4680 & 0.6076 & 0.3932 & 0.8773 & 0.4430 & 0.5887 & 0.3614 & 0.8950 & 0.4136 & 0.5658 & 0.3171 \\
 \bottomrule
 \end{tabular}
 }
